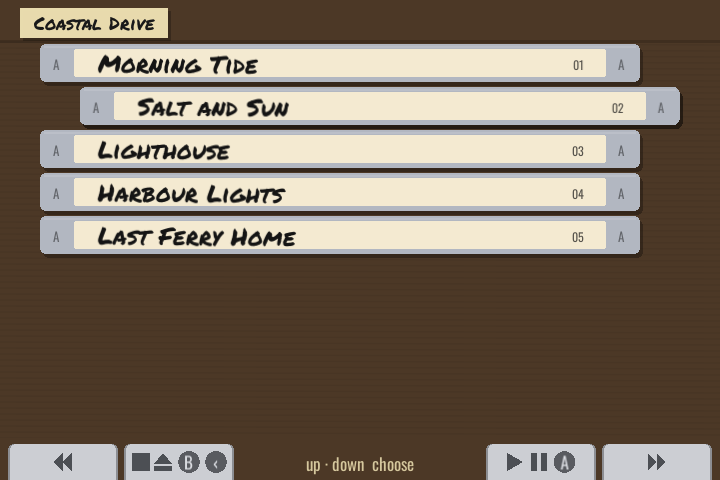
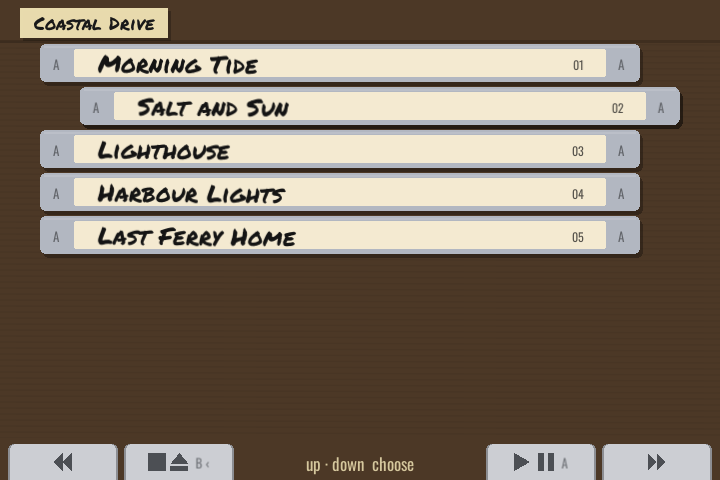
Print the optional twin buttons small and grey beside each key symbol
The twins (A, B, D-pad ‹ ›) are optional, so they no longer compete with
the key symbols: plain small grey letters beside the symbol instead of
round badges, on both the player and library keys.

Claude-Session: https://claude.ai/code/session_013h42Ln1xJVHQVHQ8PeAZ2n

Changed region(s): [[0.1833, 0.9375, 0.3361, 1.0], [0.7028, 0.9375, 0.7944, 1.0]]

diff --git a/README.md b/README.md
@@ -62,7 +62,7 @@ order they sit on the RG34XXSP hinge (L1 L2 on the left, R2 R1 on the right):
 | R2 | PLAY/PAUSE | Plays | Pauses; press again to carry on |
 | R1 | FF | Fast-forwards until STOP or the end of the tape | Tap: wind to the next song (music sensor). Hold: cue, the tape plays fast and high-pitched; after 2 s it winds at 10x, after 5 s at 30x (muted) |
 
-A works as PLAY and B as STOP; the keys show these twins as round badges. D-pad left / right jumps straight to the
+A works as PLAY and B as STOP; the keys show these twins in small print. D-pad left / right jumps straight to the
 previous / next song (with a short whir of the reels), while L1 / R1 stay
 real REW / FF.
 
